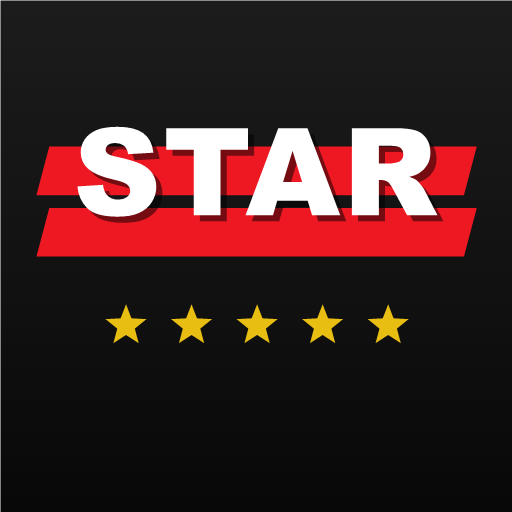
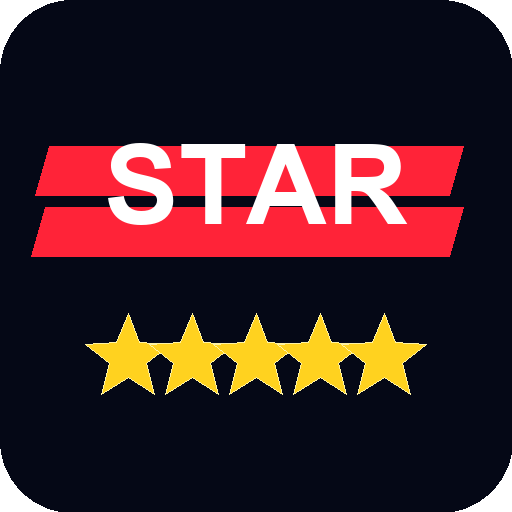
Add files via upload

diff --git a/index.html b/index.html
@@ -3,6 +3,9 @@
 <head>
 <meta charset="UTF-8" />
 <meta name="viewport" content="width=device-width, initial-scale=1.0" />
+<link rel="icon" type="image/svg+xml" href="star-icon-v3.svg?v=4" />
+<link rel="icon" type="image/png" sizes="192x192" href="star-icon-v3-192.png?v=4" />
+<link rel="apple-touch-icon" href="star-icon-v3-apple.png?v=4" />
 <title>STAR Logist Routes</title>
 <style>
 :root{
@@ -67,12 +70,27 @@ td{border:1px solid #bfbfbf;vertical-align:top;padding:10px 14px;font-size:16px;
 .badge-postponed{background:#fef3c7;color:#a16207}
 .status-row{display:flex;justify-content:space-between;gap:12px;align-items:center;flex-wrap:wrap}
 .status-buttons{display:flex;gap:8px;flex-wrap:wrap}
+.phone-summary{margin-top:14px;background:#fff7ed;border:2px solid #fb923c;border-radius:16px;padding:14px}
+.phone-summary-title{font-size:20px;font-weight:800;margin-bottom:10px;color:#9a3412}
+.phone-list{display:grid;grid-template-columns:repeat(auto-fit,minmax(220px,1fr));gap:10px}
+.phone-item{background:#fff;border:1px solid #fdba74;border-left:6px solid #f97316;border-radius:12px;padding:10px 12px}
+.phone-number{font-size:22px;font-weight:800;color:#b91c1c;line-height:1.2;word-break:break-word}
+.phone-point{font-size:13px;color:#7c2d12;margin-top:4px;font-weight:700}
 .driver-card{background:#fff;border:1px solid var(--border);border-radius:18px;padding:16px;margin-bottom:14px;box-shadow:0 2px 10px rgba(0,0,0,.05)}
 .driver-card.firm{background:var(--firm);border-color:#86efac}
 .point{font-size:24px;font-weight:700;margin-bottom:8px}
 .firm-badge{display:inline-block;background:#16a34a;color:#fff;border-radius:999px;padding:7px 12px;font-weight:700;font-size:14px;margin-bottom:10px}
 .driver-actions{display:grid;grid-template-columns:1fr 1fr;gap:12px}
 .logout{margin-left:auto}
+.rich-toolbar{display:flex;gap:8px;align-items:center;flex-wrap:wrap;margin-bottom:8px}
+.color-btn{width:34px;height:34px;min-width:34px;padding:0;border:2px solid #fff;border-radius:50%;box-shadow:0 1px 5px rgba(0,0,0,.22)}
+.rich-editor{width:100%;min-height:170px;padding:12px;border:1px solid #c7c7c7;border-radius:10px;background:#fff;font-size:17px;line-height:1.45;white-space:pre-wrap;overflow:auto}
+.rich-editor:empty:before{content:attr(data-placeholder);color:#9ca3af}
+.rich-editor:focus{outline:3px solid #bfdbfe;border-color:#3b82f6}
+.edit-modal{position:fixed;inset:0;background:rgba(17,24,39,.58);display:flex;align-items:center;justify-content:center;padding:16px;z-index:50}
+.edit-box{width:min(920px,100%);background:#fff;border-radius:18px;padding:16px;box-shadow:0 18px 45px rgba(0,0,0,.28)}
+.edit-title{font-size:22px;font-weight:700;margin:0 0 12px}
+.edit-actions{display:flex;gap:10px;justify-content:flex-end;flex-wrap:wrap;margin-top:12px}
 @media (max-width: 900px){
   .layout{grid-template-columns:1fr}
 }
@@ -254,7 +272,15 @@ td{border:1px solid #bfbfbf;vertical-align:top;padding:10px 14px;font-size:16px;
 
           <div class="panel">
             <h3 style="margin-top:0">Додати точку</h3>
-            <textarea id="newPointText" placeholder="Встав текст з Viber"></textarea>
+            <div class="rich-toolbar" data-rich-target="newPointEditor">
+              <button class="color-btn" type="button" data-color="#111827" title="Чорний" style="background:#111827"></button>
+              <button class="color-btn" type="button" data-color="#dc2626" title="Червоний" style="background:#dc2626"></button>
+              <button class="color-btn" type="button" data-color="#2563eb" title="Синій" style="background:#2563eb"></button>
+              <button class="color-btn" type="button" data-color="#16a34a" title="Зелений" style="background:#16a34a"></button>
+              <button class="color-btn" type="button" data-color="#ca8a04" title="Жовтий" style="background:#ca8a04"></button>
+              <button class="secondary" type="button" data-clear-color>Без кольору</button>
+            </div>
+            <div id="newPointEditor" class="rich-editor" contenteditable="true" data-placeholder="Встав текст з Viber"></div>
             <div class="toolbar" style="margin-top:12px">
               <button class="primary" id="addPointBtn">Додати точку</button>
             </div>
@@ -294,6 +320,25 @@ td{border:1px solid #bfbfbf;vertical-align:top;padding:10px 14px;font-size:16px;
 </div>
 
 <div id="printRouteContent" class="print-route"></div>
+
+<div id="pointEditModal" class="edit-modal hidden">
+  <div class="edit-box">
+    <div class="edit-title">Редагувати доставку</div>
+    <div class="rich-toolbar" data-rich-target="pointEditEditor">
+      <button class="color-btn" type="button" data-color="#111827" title="Чорний" style="background:#111827"></button>
+      <button class="color-btn" type="button" data-color="#dc2626" title="Червоний" style="background:#dc2626"></button>
+      <button class="color-btn" type="button" data-color="#2563eb" title="Синій" style="background:#2563eb"></button>
+      <button class="color-btn" type="button" data-color="#16a34a" title="Зелений" style="background:#16a34a"></button>
+      <button class="color-btn" type="button" data-color="#ca8a04" title="Жовтий" style="background:#ca8a04"></button>
+      <button class="secondary" type="button" data-clear-color>Без кольору</button>
+    </div>
+    <div id="pointEditEditor" class="rich-editor" contenteditable="true"></div>
+    <div class="edit-actions">
+      <button class="secondary" id="cancelPointEditBtn">Скасувати</button>
+      <button class="primary" id="savePointEditBtn">Зберегти</button>
+    </div>
+  </div>
+</div>
 
 <script type="module">
 import { initializeApp } from "https://www.gstatic.com/firebasejs/10.12.5/firebase-app.js";
@@ -500,7 +545,8 @@ document.getElementById("changeRouteDriverBtn").addEventListener("click", change
 
 async function addPoint(){
   if(!currentRouteId) return showNotice("Спочатку відкрий або створи маршрут","warn");
-  const text = document.getElementById("newPointText").value.trim();
+  const draft = getNewPointDraft();
+  const text = draft.text;
   if(!text) return showNotice("Встав текст точки","warn");
   const route = routes[currentRouteId];
   const points = route.points || [];
@@ -509,19 +555,21 @@ async function addPoint(){
     pointLabel: `${points.length + 1}-точка`,
     shop: "Магазин",
     rawText: text,
+    rawHtml: draft.html,
     status: "Загружено",
     fromFirm: false
   });
   await update(ref(db, "routes/" + currentRouteId), { points });
-  document.getElementById("newPointText").value = "";
+  clearNewPointDraft();
 }
 
 document.getElementById("addPointBtn").addEventListener("click", addPoint);
 
-async function insertPointAfter(routeId, afterPointId, text){
+async function insertPointAfter(routeId, afterPointId){
   const route = routes[routeId];
   if(!route) return;
-  const sourceText = (text || "").trim();
+  const draft = getNewPointDraft();
+  const sourceText = draft.text;
   if(!sourceText) return showNotice("Встав текст точки, яку треба вставити між доставками","warn");
   const oldPoints = route.points || [];
   const insertIndex = oldPoints.findIndex(p => p.id === afterPointId);
@@ -531,6 +579,7 @@ async function insertPointAfter(routeId, afterPointId, text){
     pointLabel: "",
     shop: "Магазин",
     rawText: sourceText,
+    rawHtml: draft.html,
     status: "Загружено",
     fromFirm: false
   };
@@ -538,7 +587,7 @@ async function insertPointAfter(routeId, afterPointId, text){
   points.splice(insertIndex + 1, 0, newPoint);
   const normalized = points.map((p,i)=>({...p, pointLabel:`${i+1}-точка`}));
   await update(ref(db, "routes/" + routeId), { points: normalized });
-  document.getElementById("newPointText").value = "";
+  clearNewPointDraft();
   showNotice("Точку вставлено в маршрут","ok");
 }
 
@@ -549,6 +598,175 @@ function escapeHtml(s){
     .replace(/>/g, "&gt;");
 }
 
+const colorMap = {
+  "#111827": "#111827",
+  "rgb(17, 24, 39)": "#111827",
+  "#dc2626": "#dc2626",
+  "rgb(220, 38, 38)": "#dc2626",
+  "#2563eb": "#2563eb",
+  "rgb(37, 99, 235)": "#2563eb",
+  "#16a34a": "#16a34a",
+  "rgb(22, 163, 74)": "#16a34a",
+  "#ca8a04": "#ca8a04",
+  "rgb(202, 138, 4)": "#ca8a04"
+};
+let editingPoint = null;
+
+function normalizeColor(color){
+  return colorMap[String(color || "").trim().toLowerCase()] || "";
+}
+
+function sanitizeRichHtml(html){
+  const root = document.createElement("div");
+  root.innerHTML = html || "";
+  function clean(node){
+    if(node.nodeType === Node.TEXT_NODE) return escapeHtml(node.textContent);
+    if(node.nodeType !== Node.ELEMENT_NODE) return "";
+    const tag = node.tagName.toLowerCase();
+    if(tag === "br") return "<br>";
+    const body = Array.from(node.childNodes).map(clean).join("");
+    if(tag === "b" || tag === "strong") return `<strong>${body}</strong>`;
+    if(tag === "i" || tag === "em") return `<em>${body}</em>`;
+    if(tag === "u") return `<u>${body}</u>`;
+    const color = normalizeColor(node.style.color || node.getAttribute("color"));
+    if(color) return `<span style="color:${color}">${body}</span>`;
+    if(tag === "div" || tag === "p") return `${body}<br>`;
+    return body;
+  }
+  return Array.from(root.childNodes).map(clean).join("").replace(/(<br>){3,}/g, "<br><br>").replace(/(<br>)+$/g, "");
+}
+
+function plainTextFromEditor(editor){
+  return (editor.innerText || "").replace(/\u00a0/g, " ").trim();
+}
+
+function richPointHtml(point){
+  if(point?.rawHtml) return sanitizeRichHtml(point.rawHtml);
+  return escapeHtml(point?.rawText || "").replace(/\n/g, "<br>");
+}
+
+function formatPhone(raw){
+  const digits = String(raw || "").replace(/\D/g, "");
+  if(digits.length === 12 && digits.startsWith("380")){
+    return `+${digits.slice(0,3)} ${digits.slice(3,5)} ${digits.slice(5,8)} ${digits.slice(8,10)} ${digits.slice(10,12)}`;
+  }
+  if(digits.length === 10 && digits.startsWith("0")){
+    return `${digits.slice(0,3)} ${digits.slice(3,6)} ${digits.slice(6,8)} ${digits.slice(8,10)}`;
+  }
+  return raw.trim();
+}
+
+function extractRoutePhones(points){
+  const phones = [];
+  const seen = new Set();
+  const phoneRe = /(?:\+?38[\s().-]*)?0\d{2}[\s().-]*\d{3}[\s().-]*\d{2}[\s().-]*\d{2}/g;
+  (points || []).forEach(point => {
+    const text = point?.rawText || "";
+    const matches = text.match(phoneRe) || [];
+    matches.forEach(match => {
+      const digits = match.replace(/\D/g, "");
+      const key = digits.length === 10 ? `38${digits}` : digits;
+      if(seen.has(key)) return;
+      seen.add(key);
+      phones.push({
+        number: formatPhone(match),
+        pointLabel: point.pointLabel || "",
+        shop: point.shop || "Магазин"
+      });
+    });
+  });
+  return phones;
+}
+
+function buildPhoneSummaryHtml(points){
+  const phones = extractRoutePhones(points);
+  if(!phones.length) return "";
+  return `
+    <div class="phone-summary">
+      <div class="phone-summary-title">Телефони доставок</div>
+      <div class="phone-list">
+        ${phones.map(phone => `
+          <div class="phone-item">
+            <div class="phone-number">${escapeHtml(phone.number)}</div>
+            <div class="phone-point">${escapeHtml(phone.pointLabel)} · ${escapeHtml(phone.shop)}</div>
+          </div>
+        `).join("")}
+      </div>
+    </div>
+  `;
+}
+
+function getNewPointDraft(){
+  const editor = document.getElementById("newPointEditor");
+  return {
+    text: plainTextFromEditor(editor),
+    html: sanitizeRichHtml(editor.innerHTML)
+  };
+}
+
+function clearNewPointDraft(){
+  document.getElementById("newPointEditor").innerHTML = "";
+}
+
+function applyColor(targetId, color){
+  const editor = document.getElementById(targetId);
+  editor.focus();
+  document.execCommand("foreColor", false, color);
+}
+
+function clearColor(targetId){
+  const editor = document.getElementById(targetId);
+  editor.focus();
+  document.execCommand("removeFormat", false, null);
+}
+
+document.querySelectorAll(".rich-toolbar").forEach(toolbar => {
+  const targetId = toolbar.getAttribute("data-rich-target");
+  toolbar.querySelectorAll("[data-color]").forEach(btn => {
+    btn.addEventListener("click", () => applyColor(targetId, btn.getAttribute("data-color")));
+  });
+  const clearBtn = toolbar.querySelector("[data-clear-color]");
+  if(clearBtn) clearBtn.addEventListener("click", () => clearColor(targetId));
+});
+
+document.querySelectorAll(".rich-editor").forEach(editor => {
+  editor.addEventListener("paste", event => {
+    event.preventDefault();
+    const text = event.clipboardData.getData("text/plain");
+    document.execCommand("insertText", false, text);
+  });
+});
+
+function openPointEditor(routeId, point){
+  editingPoint = { routeId, pointId: point.id };
+  const editor = document.getElementById("pointEditEditor");
+  editor.innerHTML = richPointHtml(point);
+  document.getElementById("pointEditModal").classList.remove("hidden");
+  setTimeout(() => editor.focus(), 0);
+}
+
+function closePointEditor(){
+  editingPoint = null;
+  document.getElementById("pointEditModal").classList.add("hidden");
+  document.getElementById("pointEditEditor").innerHTML = "";
+}
+
+document.getElementById("cancelPointEditBtn").addEventListener("click", closePointEditor);
+document.getElementById("pointEditModal").addEventListener("click", event => {
+  if(event.target.id === "pointEditModal") closePointEditor();
+});
+document.getElementById("savePointEditBtn").addEventListener("click", () => {
+  if(!editingPoint) return;
+  const editor = document.getElementById("pointEditEditor");
+  const text = plainTextFromEditor(editor);
+  if(!text) return showNotice("Текст доставки не може бути порожній","warn");
+  updatePoint(editingPoint.routeId, editingPoint.pointId, {
+    rawText: text,
+    rawHtml: sanitizeRichHtml(editor.innerHTML)
+  });
+  closePointEditor();
+});
+
 function buildDriverCardsHtml(route){
   const points = route?.points || [];
   if(!points.length) return '<div class="empty">У цьому маршруті ще немає точок.</div>';
@@ -557,7 +775,7 @@ function buildDriverCardsHtml(route){
       <div class="point">${point.pointLabel}</div>
       <div class="shop">${escapeHtml(point.shop || "Магазин")}</div>
       ${point.fromFirm ? '<div class="firm-badge">ФІРМА</div>' : ''}
-      <div class="raw">${escapeHtml(point.rawText || "").replace(/\n/g, "<br>")}</div>
+      <div class="raw">${richPointHtml(point)}</div>
       <div class="status-badge ${badgeClass(point.status)}">Статус: ${escapeHtml(point.status)}</div>
       <div class="driver-actions" style="margin-top:14px">
         <button class="green">Доставлено</button>
@@ -581,6 +799,7 @@ function renderPrintRoute(routeId){
       <div><b>Водій:</b> ${escapeHtml(driverNameById(route.driverId))}</div>
     </div>
     ${buildDriverCardsHtml(route)}
+    ${buildPhoneSummaryHtml(route.points || [])}
   `;
   return true;
 }
@@ -667,7 +886,7 @@ function renderCurrentRoute(){
     const rawTd = document.createElement("td");
     const rawDiv = document.createElement("div");
     rawDiv.className = "raw";
-    rawDiv.textContent = point.rawText || "";
+    rawDiv.innerHTML = richPointHtml(point);
     rawTd.appendChild(rawDiv);
     tr2.appendChild(rawTd);
 
@@ -693,15 +912,14 @@ function renderCurrentRoute(){
     btnWrap.appendChild(makeBtn("Загружено","blue",()=>updatePoint(currentRouteId, point.id, {status:"Загружено"})));
     btnWrap.appendChild(makeBtn("Доставлено","green",()=>updatePoint(currentRouteId, point.id, {status:"Доставлено"})));
     btnWrap.appendChild(makeBtn("Перенесено","yellow",()=>updatePoint(currentRouteId, point.id, {status:"Перенесено"})));
-    btnWrap.appendChild(makeBtn("Вставити після","blue",()=>insertPointAfter(currentRouteId, point.id, document.getElementById("newPointText").value)));
+    btnWrap.appendChild(makeBtn("Вставити після","blue",()=>insertPointAfter(currentRouteId, point.id)));
     btnWrap.appendChild(makeBtn(point.fromFirm ? "Фірма ✔":"Фірма", point.fromFirm ? "green":"secondary", ()=>updatePoint(currentRouteId, point.id, {fromFirm: !point.fromFirm})));
     btnWrap.appendChild(makeBtn("Магазин","secondary",()=>{
       const next = prompt("Назва магазину", point.shop || "");
       if(next !== null && next.trim()) updatePoint(currentRouteId, point.id, {shop: next.trim()});
     }));
     btnWrap.appendChild(makeBtn("Редагувати","secondary",()=>{
-      const next = prompt("Редагувати текст точки", point.rawText || "");
-      if(next !== null && next.trim()) updatePoint(currentRouteId, point.id, {rawText: next.trim()});
+      openPointEditor(currentRouteId, point);
     }));
     btnWrap.appendChild(makeBtn("Видалити","danger",()=>deletePoint(currentRouteId, point.id)));
 
@@ -714,6 +932,7 @@ function renderCurrentRoute(){
   table.appendChild(tbody);
   wrap.innerHTML = "";
   wrap.appendChild(table);
+  wrap.insertAdjacentHTML("beforeend", buildPhoneSummaryHtml(points));
 }
 
 document.getElementById("driverModeSelect").addEventListener("change", e=>{
@@ -767,9 +986,9 @@ function renderDriverCurrentRoute(){
     card.className = "driver-card" + (point.fromFirm ? " firm" : "");
     card.innerHTML = `
       <div class="point">${point.pointLabel}</div>
-      <div class="shop">${point.shop || "Магазин"}</div>
+      <div class="shop">${escapeHtml(point.shop || "Магазин")}</div>
       ${point.fromFirm ? '<div class="firm-badge">ФІРМА</div>' : ''}
-      <div class="raw">${(point.rawText || "").replace(/\n/g, "<br>")}</div>
+      <div class="raw">${richPointHtml(point)}</div>
       <div class="status-badge ${badgeClass(point.status)}">Статус: ${point.status}</div>
       <div class="driver-actions" style="margin-top:14px">
         <button class="green" data-action="delivered" data-point="${point.id}">Доставлено</button>
@@ -790,12 +1009,14 @@ function renderDriverCurrentRoute(){
     const point = route.points.find(p=>p.id===pointId);
     updatePoint(selectedDriverRouteId, pointId, {
       status:"Перенесено",
-      rawText: (point?.rawText || "") + "\n\n[ПЕРЕНЕСЕНО]: " + (note || "")
+      rawText: (point?.rawText || "") + "\n\n[ПЕРЕНЕСЕНО]: " + (note || ""),
+      rawHtml: ""
     });
   }
 }
     };
   });
+  wrap.insertAdjacentHTML("beforeend", buildPhoneSummaryHtml(points));
 }
 
 listenDrivers();
